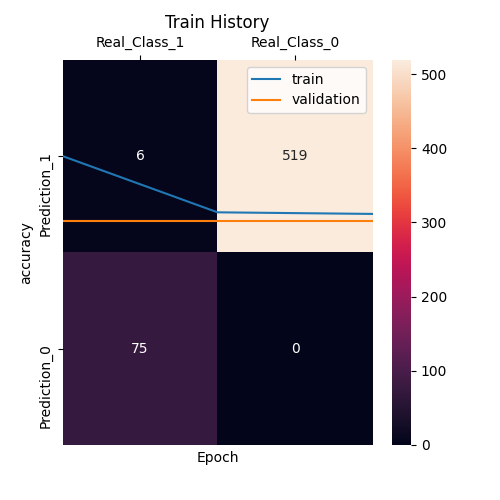
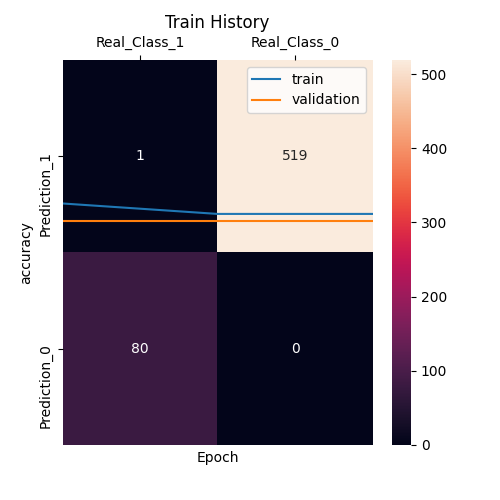
magic num

diff --git a/test/AIWH/dl.py b/test/AIWH/dl.py
@@ -15,6 +15,7 @@ from sklearn.metrics import accuracy_score, precision_score, recall_score, f1_sc
 from .base import Base
 class DL(Base):
     def __init__(self,d=None):
+        self.trainField = 'accuracy'
         self.imgIndex=0
         self.testCounts=[]
         Base.__init__(self,d)
@@ -39,17 +40,10 @@ class DL(Base):
         self.t0=time.time()
         self.model=self.evalModel()
         self.optimize().evaluate().model_efficacy()
-        #Evaluating the model using testing data set
-        # if hasattr(self,'clf'):
-        #     X_test=self.X_test
-        #     y_test=self.y_test
-        #     y_pred = self.clf.predict(X_test)
-        #     self.score = accuracy_score(y_test,y_pred)
-        #     #Set the accuracy and the time taken by the classifier
         self.scoreTime= ('score',self.score),('time',time.time()-self.t0)
         # Display the accuracy curves for training and validation sets
         if enableGraph:
-            self.graphData(self.train_history, 'accuracy', 'val_accuracy')
+            self.graphData(self.train_history,self.trainField , 'val_'+self.trainField)
             # Display the loss curves for training and validation sets
             self.graphData(self.train_history, 'loss', 'val_loss')
         return self
@@ -113,8 +107,10 @@ class DL(Base):
         return self
     def optimize(self):
         # Using 'Adam' to optimize the Accuracy matrix
-        self.model.compile(loss='binary_crossentropy', optimizer='adam',
-        metrics=['accuracy'])
+        self.model.compile(
+            loss='binary_crossentropy', 
+            optimizer='adam',
+            metrics=[self.trainField])
         # Fit the model
         # number of epochs = 200 and batch size = 500
         self.train_history =self. model.fit(

diff --git a/test/AIWH/base.py b/test/AIWH/base.py
@@ -36,19 +36,21 @@ class Base(object):
         self.df=self.df.drop(columns=columns,axis=1)
         return self
     def preprocessShuffle(self, n):
+        self.n=n
         # Create a new data frame with the first n samples
         df_sample = self.df.iloc[:n, :]
         self.shuffle_df = shuffle(df_sample, random_state=42)
         self.df_sample=self.valueCounts('Class',df_sample)
         return self
-    def preprocessSplit(self):
+    def preprocessSplit(self,featuresEnd):
         # Spilt the dataset into train and test data frame
-        df_train = self.shuffle_df[0:2400]
-        df_test = self.shuffle_df[2400:]
+        endInd = int(self.n*.8)
+        df_train = self.shuffle_df[0:endInd]
+        df_test = self.shuffle_df[endInd:]
         # Spilt each dataframe into feature and label
-        self.train_feature = np.array(df_train.values[:, 0:29])
+        self.train_feature = np.array(df_train.values[:, 0:featuresEnd])
         self.train_label = np.array(df_train.values[:, -1])
-        self.test_feature = np.array(df_test.values[:, 0:29])
+        self.test_feature = np.array(df_test.values[:, 0:featuresEnd])
         self.test_label = np.array(df_test.values[:, -1])
         return self
     def valueCounts(self,colName,df=None):

diff --git a/test/AIWH/test_dl.py b/test/AIWH/test_dl.py
@@ -38,7 +38,7 @@ class TDD_MACHINE_LEARNING(unittest.TestCase):
             .preprocessStratified()\
             .preprocessDropCols('Time')\
             .preprocessShuffle(3000)\
-            .preprocessSplit()\
+            .preprocessSplit(29)\
             .preprocessNormalize()\
             .buildModel()\
             .ModelEvaluationOptimization()\
